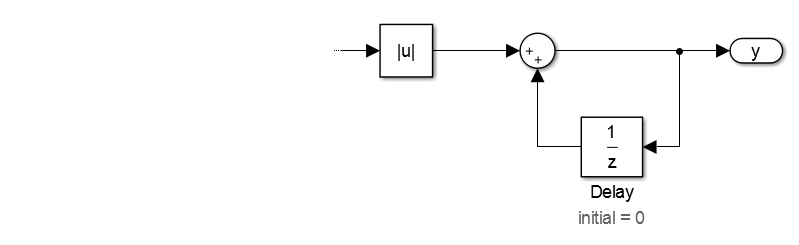
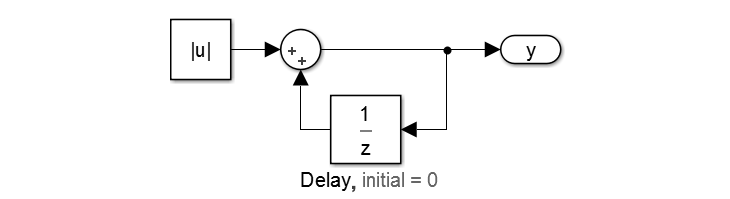
Cleaned up example

diff --git a/support/support_TeX/example.tex b/support/support_TeX/example.tex
@@ -1,0 +1,41 @@
+\section{Motivating Example}
+\label{sec:exmpl}
+
+\begin{figure}[t]
+\includegraphics[width=\columnwidth]{figs/simulink-ivc.png}
+{\smaller
+\begin{verbatim}
+node filter(x, a : real) returns (y : real);
+var
+  b : real;
+let
+  b = if a >= 0.0 then a else -a;
+  y = b + (0.0 -> pre y);
+tel;
+\end{verbatim}
+}
+\caption{Model with property $y \geq 0$, after IVC analysis}
+\label{fig:ex-after}
+\end{figure}
+
+Consider the model shown both graphically and textually in
+Figure~\ref{fig:ex-before}. This model takes an input, combines it
+with the previous output in some way, takes the absolute value, and
+then adds this to an accumulating value. This model has the property
+that the output is always non-negative, i.e., $y \geq 0$. Moreover, it
+happens that this property holds regardless of the way the input is
+combined with the previous output, i.e., the function $f$ in the
+model. Formally, we say that the inductive validity core (IVC) does
+not contain that part of the model. The model reduced to its IVC is
+shown in Figure~\ref{fig:ex-after}.
+
+%% \begin{itemize}
+%%     \item Not sure if this should go before or after the background section with a description of Lustre.
+%%     \item Need a small but interesting example.  Andrew, do any of the models that you use as jkind tests
+%%         function in this way?  It would be nice to look at what we have lying around; we need something 
+%%         that requires invariants.
+%%     \item It would also be good to have a few points of interest with the model-requirement pairing: 
+%%     \item \quad   vacuity due to an overconstrained environment 
+%%     \item \quad   definitions within the model that are irrelevant to the proof.
+%%     \item Explain the model and the proof process.
+%% \end{itemize}

diff --git a/support/support_TeX/introduction.tex b/support/support_TeX/introduction.tex
@@ -34,6 +34,25 @@ Once generated, the IVC can be used for many purposes in the software verificati
 process must be efficient and the generated IVC must be
 accurate and precise (that is, sound and close to minimal).
 
+%% We put the image here so it shows up side-by-side with fig:ex-after
+\begin{figure}[t]
+\centering
+\includegraphics[width=\columnwidth]{figs/simulink.png}
+{\smaller
+\begin{verbatim}
+node filter(x : real) returns (y : real);
+var
+  a, b : real;
+let
+  a = f(x, 0.0 -> pre y);
+  b = if a >= 0.0 then a else -a;
+  y = b + (0.0 -> pre y);
+tel;
+\end{verbatim}
+}
+\caption{Model with property $y \geq 0$, before IVC analysis}
+\label{fig:ex-before}
+\end{figure}
 
 In the remainder of this paper, we present an algorithm for efficient generation of IVCs for induction-based model checkers.  Our contributions, as detailed in the remainder of the paper, are as follows:
 

diff --git a/support/support_TeX/main.tex b/support/support_TeX/main.tex
@@ -124,7 +124,7 @@ Symbolic model checkers can construct proofs of properties over very complex mod
 %\fi
 %\section{Illustrative Example}
 
-\input{running_ex}
+\input{example}
 
 \input{background}
 
